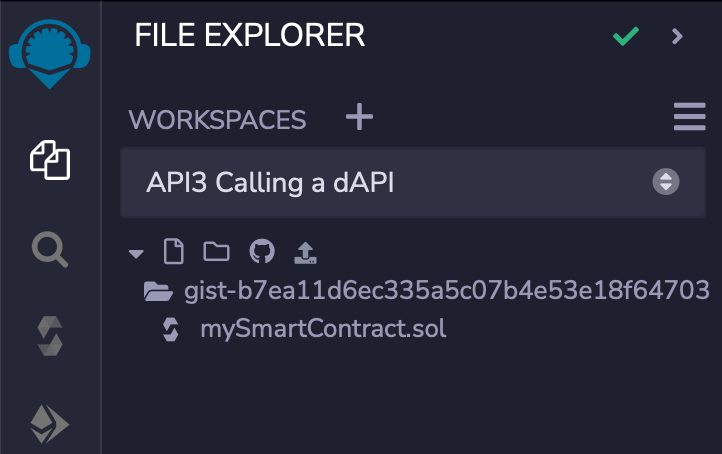
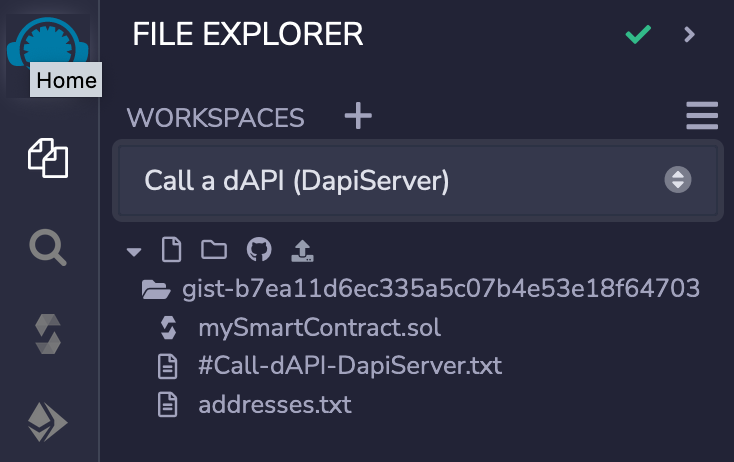
Draft of the DapiServer guide for review This guide implements guidelines for the guide presentations

diff --git a/docs/guides/dapis/call-dapi-dapiserver/index.md b/docs/guides/dapis/call-dapi-dapiserver/index.md
@@ -1,5 +1,5 @@
 ---
-title: Calling a dAPI
+title: Call a dAPI (DapServer.sol)
 sidebarHeader: Guides
 sidebarSubHeader:
 pageHeader: Guides → dAPIs
@@ -14,9 +14,19 @@ tags:
 
 # {{$frontmatter.title}}
 
-This guide will use a simple workspace in the Remix IDE created from a GitHub
-gist. You will deploy a simple smart contract onto the Goerli network that calls
-a dAPI.
+This guide will create a simple smart contract in the Remix IDE derived from a
+[GitHub gist](https://gist.github.com/wkande/b7ea11d6ec335a5c07b4e53e18f64703).
+You will deploy this contract onto the Polygon Mumbai testnet.  
+The contract will import the `DapServer.sol` contract and use one of its
+functions to call a dAPI.
+
+::: tip
+
+The preferred method of calling a dAPI is to use a proxy acquired from the
+[API3 Market](https://market.api3.org/dapis). Please take a look at the
+[Call dAPI (proxy)](./../call-dapi-proxy/index.md) guide.
+
+:::
 
 ## 1. Load the Remix workspace
 
@@ -24,53 +34,33 @@ a dAPI.
 to open Remix pre-loaded with a workspace and a single smart contract called
 `mySmartContract.sol` pulled from a gist on GitHub.
 
-Optionally consider renaming the Remix workspace (now called "gist-sample") to
-"API3 Calling a dAPI" using the hamburger menu. This will separate this guide
-from other guides provided in these docs.
+Optionally consider renaming the Remix workspace (now called gist-sample) to
+**Call a dAPI (DapiServer)** using the hamburger menu. This will separate this
+guide from other guides provided in these docs.
 
 <img src="./assets/workspace-setup.png" style="width:50%;border:1px solid gray;">
 
 ## 2. Understanding the smart contract
 
 In Remix click on the contract named `mySmartContract.sol` to view its source
-code. This smart contract imports `DapiServer.sol` and uses its function
-`readDataFeedWithDapiName(_dapiName)` which returns a value and timestamp. This
-function is one of four functions available to call a dAPI. These functions are
-[explained](/reference/dapis/functions/read-data-feed-with-dapi-name.html) in
-the reference section under dAPIs.
-
-::: details Expand to view: `mySmartContract.sol`
-
-```solidity
-// SPDX-License-Identifier: MIT
-pragma solidity 0.8.9;
-
-import "@api3/airnode-protocol-v1/contracts/dapis/interfaces/IDapiServer.sol";
-contract mySmartContract {
-
-int224 private value;
-uint32 private timestamp;
-
-    function callDapi(
-        address _dapiServerContractAddress,
-        bytes32 _dapiName
-    )  external {
-
-        // Call the DapiServer contract for the value and timestamp of AVAX/USD on Polygon Mumbai.
-        // _dapiServerContractAddress: DapiServer contract address - 0x71Da7A936fCaEd1Ee364Df106B12deF6D1Bf1f14
-        // _dapiName: AVAX/USD - 0x415641582f555344000000000000000000000000000000000000000000000000
-        (value, timestamp) =
-            IDapiServer(_dapiServerContractAddress).readDataFeedWithDapiName(_dapiName);
-    }
-}
-```
-
-:::
+code. This smart contract imports `DapiServer.sol` and uses the function
+`readDataFeedWithDapiName(_dapi)` which populates the contract variables `value`
+and `timestamp`. This function is one of
+[four functions](/reference/dapis/functions/read-data-feed-with-dapi-name.html)
+available to call a dAPI.
 
 ## 3. Compile the contract
 
 Select the **SOLIDITY COMPILER** pane and compile `mySmartContract.sol`. Note
 the version of the compiler matches the contract's declaration.
+
+::: tip
+
+If the compile button refuses to show the contract name, switch to another
+workspace and back again. Remix sometimes has an issue after renaming a
+workspace.
+
+:::
 
 <img src="./assets/compile.png" style="width:50%;border:1px solid gray;">
 
@@ -81,29 +71,24 @@ will be deploying the smart contract `mySmartContract.sol` onto Mumbai. If you
 do not have Mumbai setup in MetaMask use the MetaMask criteria below to add
 Mumbai to MetaMask.
 
-::: details Expand to view MetaMask criteria.
+::: details Expand to view: MetaMask criteria for Mumbai.
 
 <img src="../../assets/images/mumbai-setup.png" style="width:50%;border:1px solid lightgrey;padding:10px;">
 
 :::
 
-If you need additional help connecting MetaMask to the Mumbai network
+If you need additional help connecting MetaMask to the Mumbai testnet
 [check this guide](https://medium.com/stakingbits/how-to-connect-polygon-mumbai-testnet-to-metamask-fc3487a3871f).
 
-::: tip MATIC Faucet
-
-Use this [faucet](https://faucet.polygon.technology/) to acquire test MATIC for
-Mumbai.
-
-:::
+Be sure MetaMask is set to an account you wish to use. Use this
+[faucet](https://faucet.polygon.technology/) to acquire test MATIC for Mumbai.
 
 ## 5. Deploy `mySmartContract.sol`
 
 Select the **DEPLOY & RUN TRANSACTIONS** pane. Set **ENVIRONMENT** to "Injected
 Provider - MetaMask" which should show "Custom (80001) network" below if you
 have MetaMask set properly. Lastly select the **Deploy** button and follow
-through with the MetaMask integration to deploy the smart contract onto Polygon
-Mumbai.
+through with the MetaMask integration to deploy the smart contract onto Mumbai.
 
 <div class="api3-outer-flex-box">
      <div class="api3-outer-flex-box-cell">Use the Deploy button and deploy the contract onto Polygon Mumbai.
@@ -114,15 +99,75 @@ Mumbai.
     </div>
 </div>
 
-## 4. Permissions
+::: warning Remix Reload Contract
 
-Because you are calling a dAPI on a testnet it is not required to get a
-subscription for `mySmartContract.sol`. Learn more about subscriptions **TODO:
-finish this**.
+If you close the Remix IDE or change workspaces, Remix will lose track of any
+deployed contracts. The [Remix Reload Contract](./../remix-reload-contract.md)
+guide will step you through the process to reload a deployed contract in order
+to interact with it again.
 
-## 5. Call `readDataFeedWithDapiName(_dapiName)`
+:::
 
-0x1343FFF8a5CadACB32F775737AD00a949E7B5843
+## 6. Permissions
+
+Because you are calling a dAPI on a testnet, a subscription for the dAPI
+**AVAX/USD** on Mumbai is not needed. However you will need to get permission
+for your smart contract to call the dAPI.
+
+Copy the address of the smart contract. Select copy icon to the right of the
+contract name, `mySmartContract.sol`.
+
+<img src="./assets/copy-address.png" style="width:50%;border:1px solid gray;">
+
+Go to the API3 Market page for
+[AVAX/USD on Mumbai](https://market.api3.org/dapis/polygon-testnet/AVAX-USD).
+Enter the contract address into the permissions widget to the right side of the
+page.
+
+<img src="./assets/permissions.png" style="width:40%;border:1px solid gray;">
+
+Select the **Connect Wallet** button to activate MetaMask. Once activated select
+the **Get Access** button to interact with MetaMask and facilitate the
+transaction. Your contract `mySmartContract.sol` now has permission to call the
+AVAX/USD dAPI.
+
+## 7. Call `mySmartContract` function `callDapi()`
+
+Next call the function `callDapi()` on your newly deployed smart contract. It
+will require two parameters.
+
+- **\_dapiServerContractAddress:
+  `0x71Da7A936fCaEd1Ee364Df106B12deF6D1Bf1f14`**<CopyIcon text="0x71Da7A936fCaEd1Ee364Df106B12deF6D1Bf1f14"/>
+  <br/>The contract address for the `Dapiserver.sol` contract on Mumbai. It and
+  other network addresses for `Dapiserver.sol` can be found on the
+  [Chains and Contracts](/reference/dapis/chains.md) page in the reference
+  section.
+- **\_dapi:
[1 lines of base64/hex data omitted]
+  <br/>A bytes32 representation of AVAX/USD. Use
+  `utils.formatBytes32String("AVAX/USD");` to get this encoded value. Try it in
+  the [ethers playground](https://playground.ethers.org/).
+
+<img src="./assets/call-function.png" style="width:50%;border:1px solid gray;">
+
+Add the two parameters and select the **transact** button to interact with
+MetaMask and complete the transaction. Once the transaction is completed the
+smart contract's variables `timestamp` and `value` have been populated.
+
+## 8. View `timestamp` and `value`
+
+After the call to `callDapi()` is complete, the `timestamp` and `value` contract
+variables hold the results until the function is called again in which case
+these variables would be updated.
+
+Select both the **timestamp** and **value** buttons to retrieve their current
+state.
+
+  <img src="./assets/values.png" style="width:50%;border:1px solid gray;">
+
+Compare the `value` with the value displayed on the
+[API3 Market for AVAX/USD](https://market.api3.org/dapis/polygon-testnet/AVAX-USD)
+on Mumbai.
 
 <style>
   .api3-outer-flex-box{
